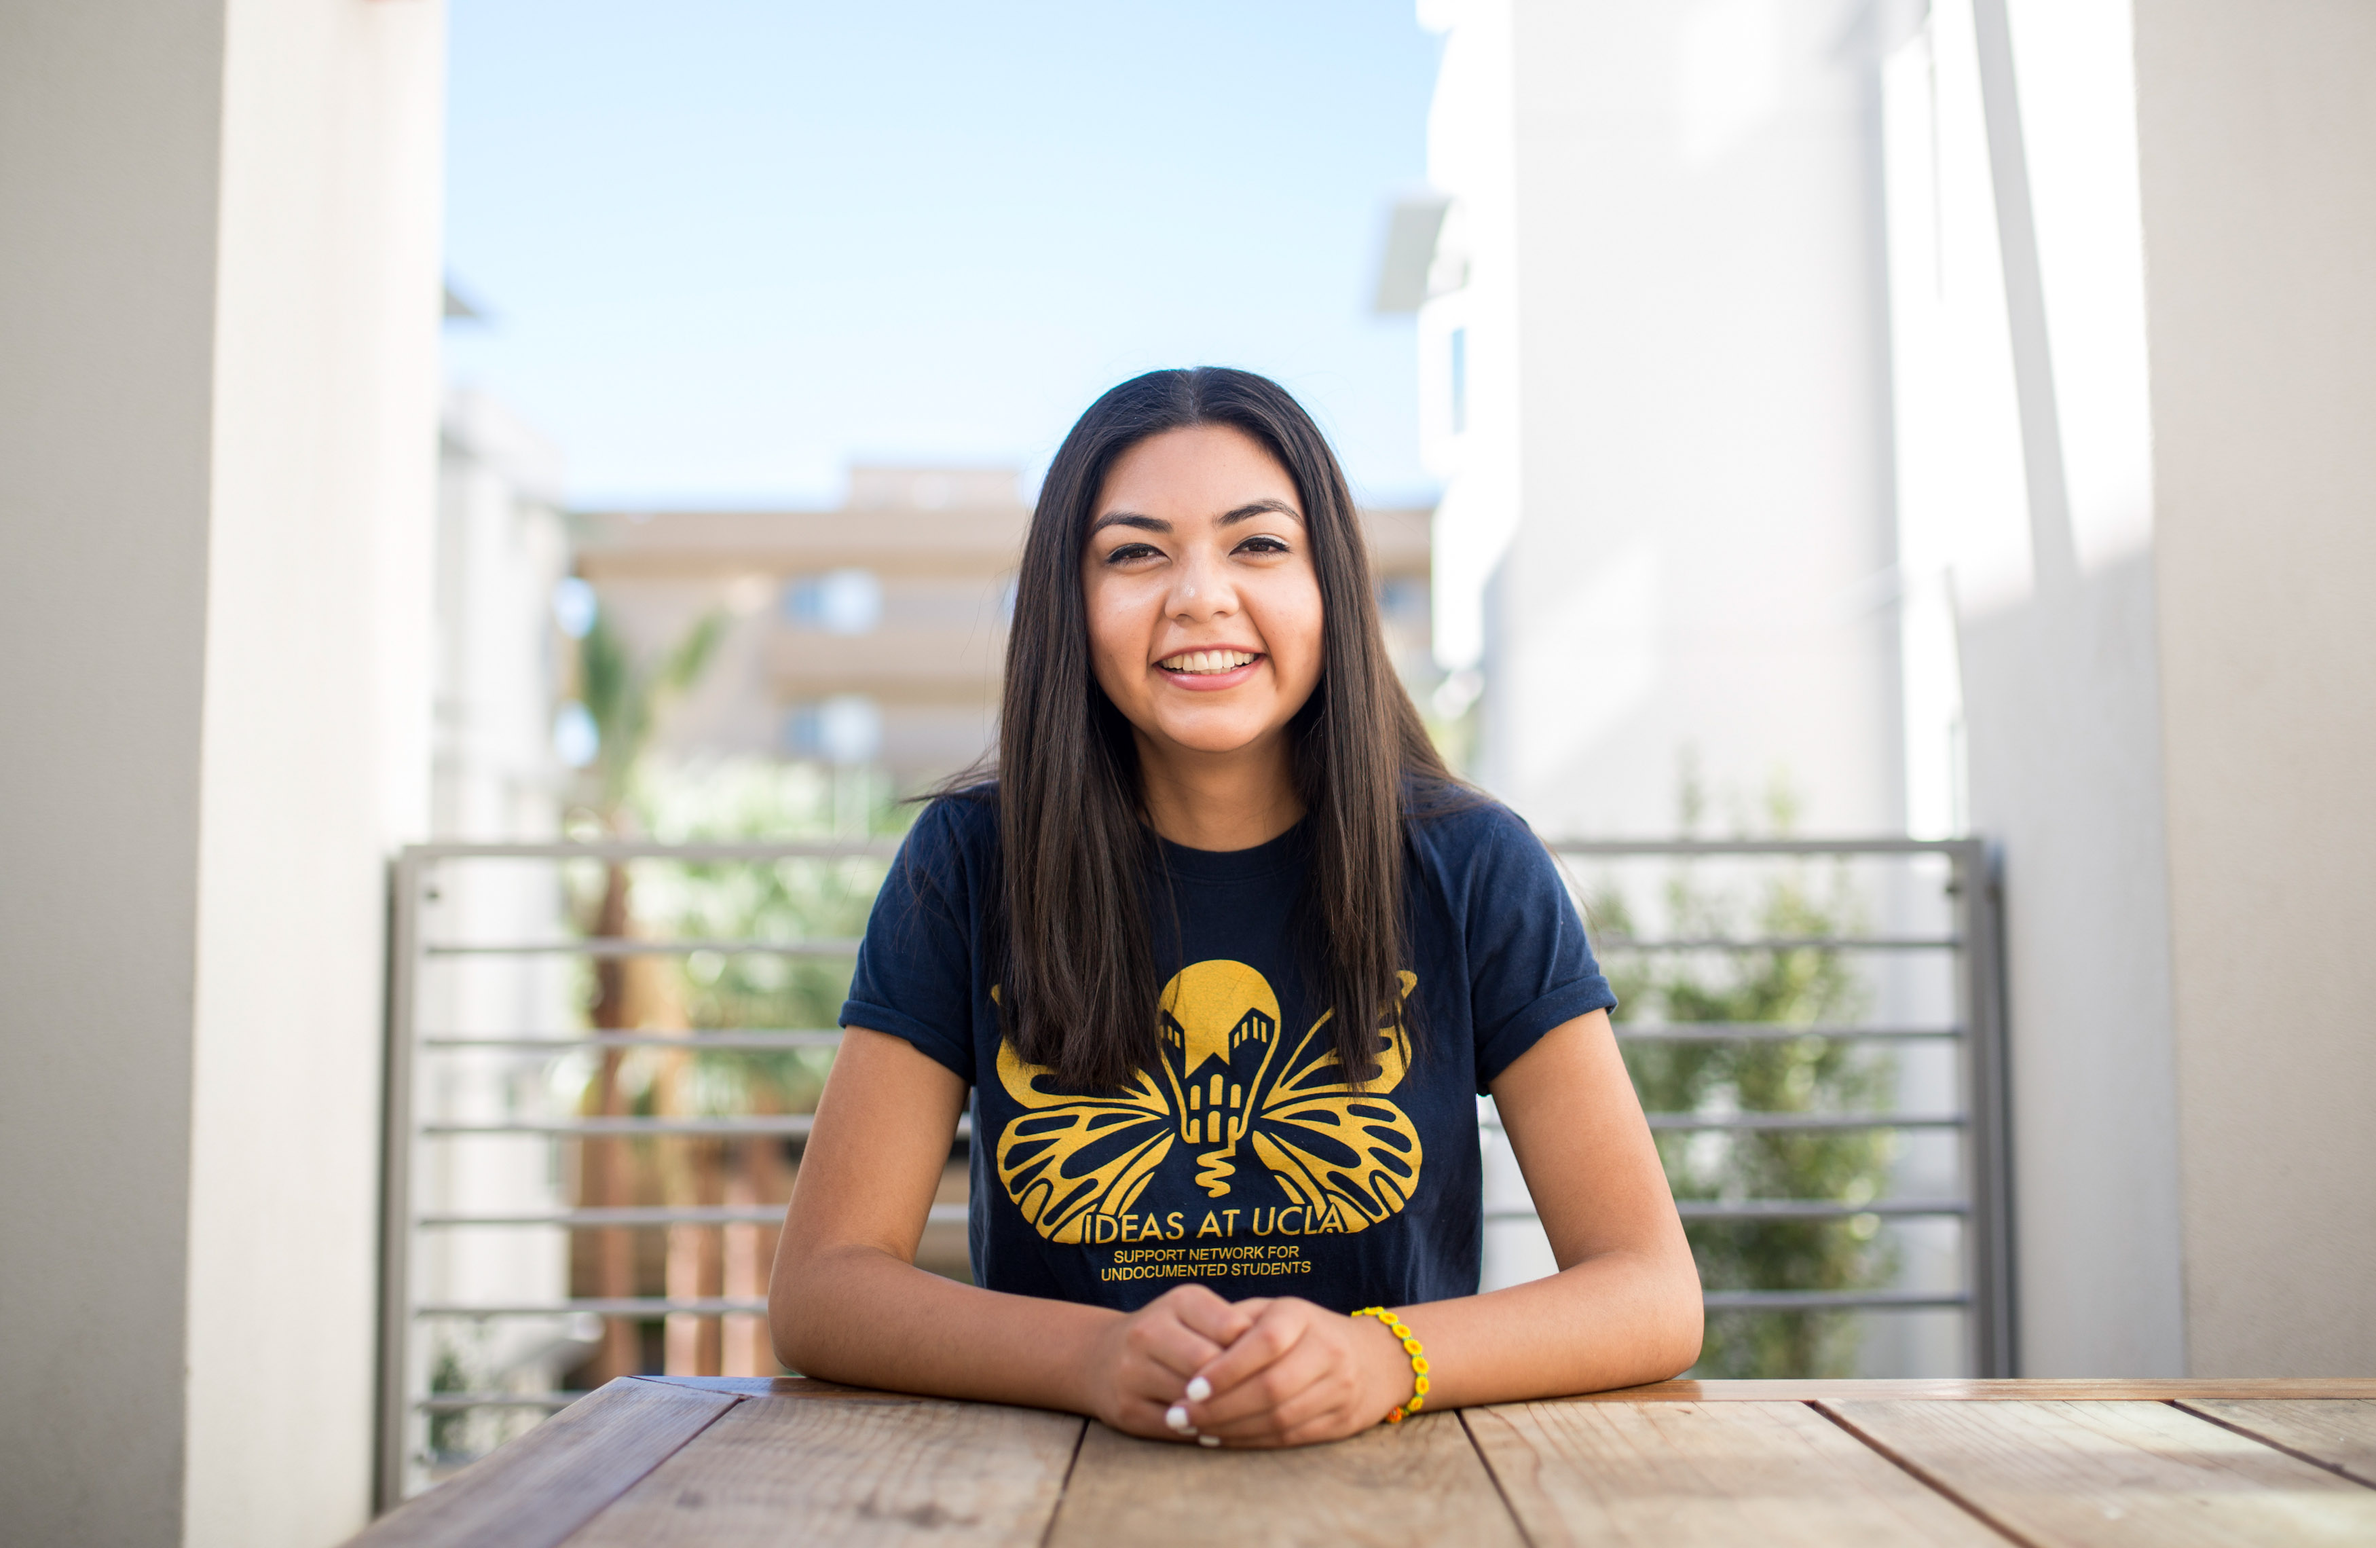
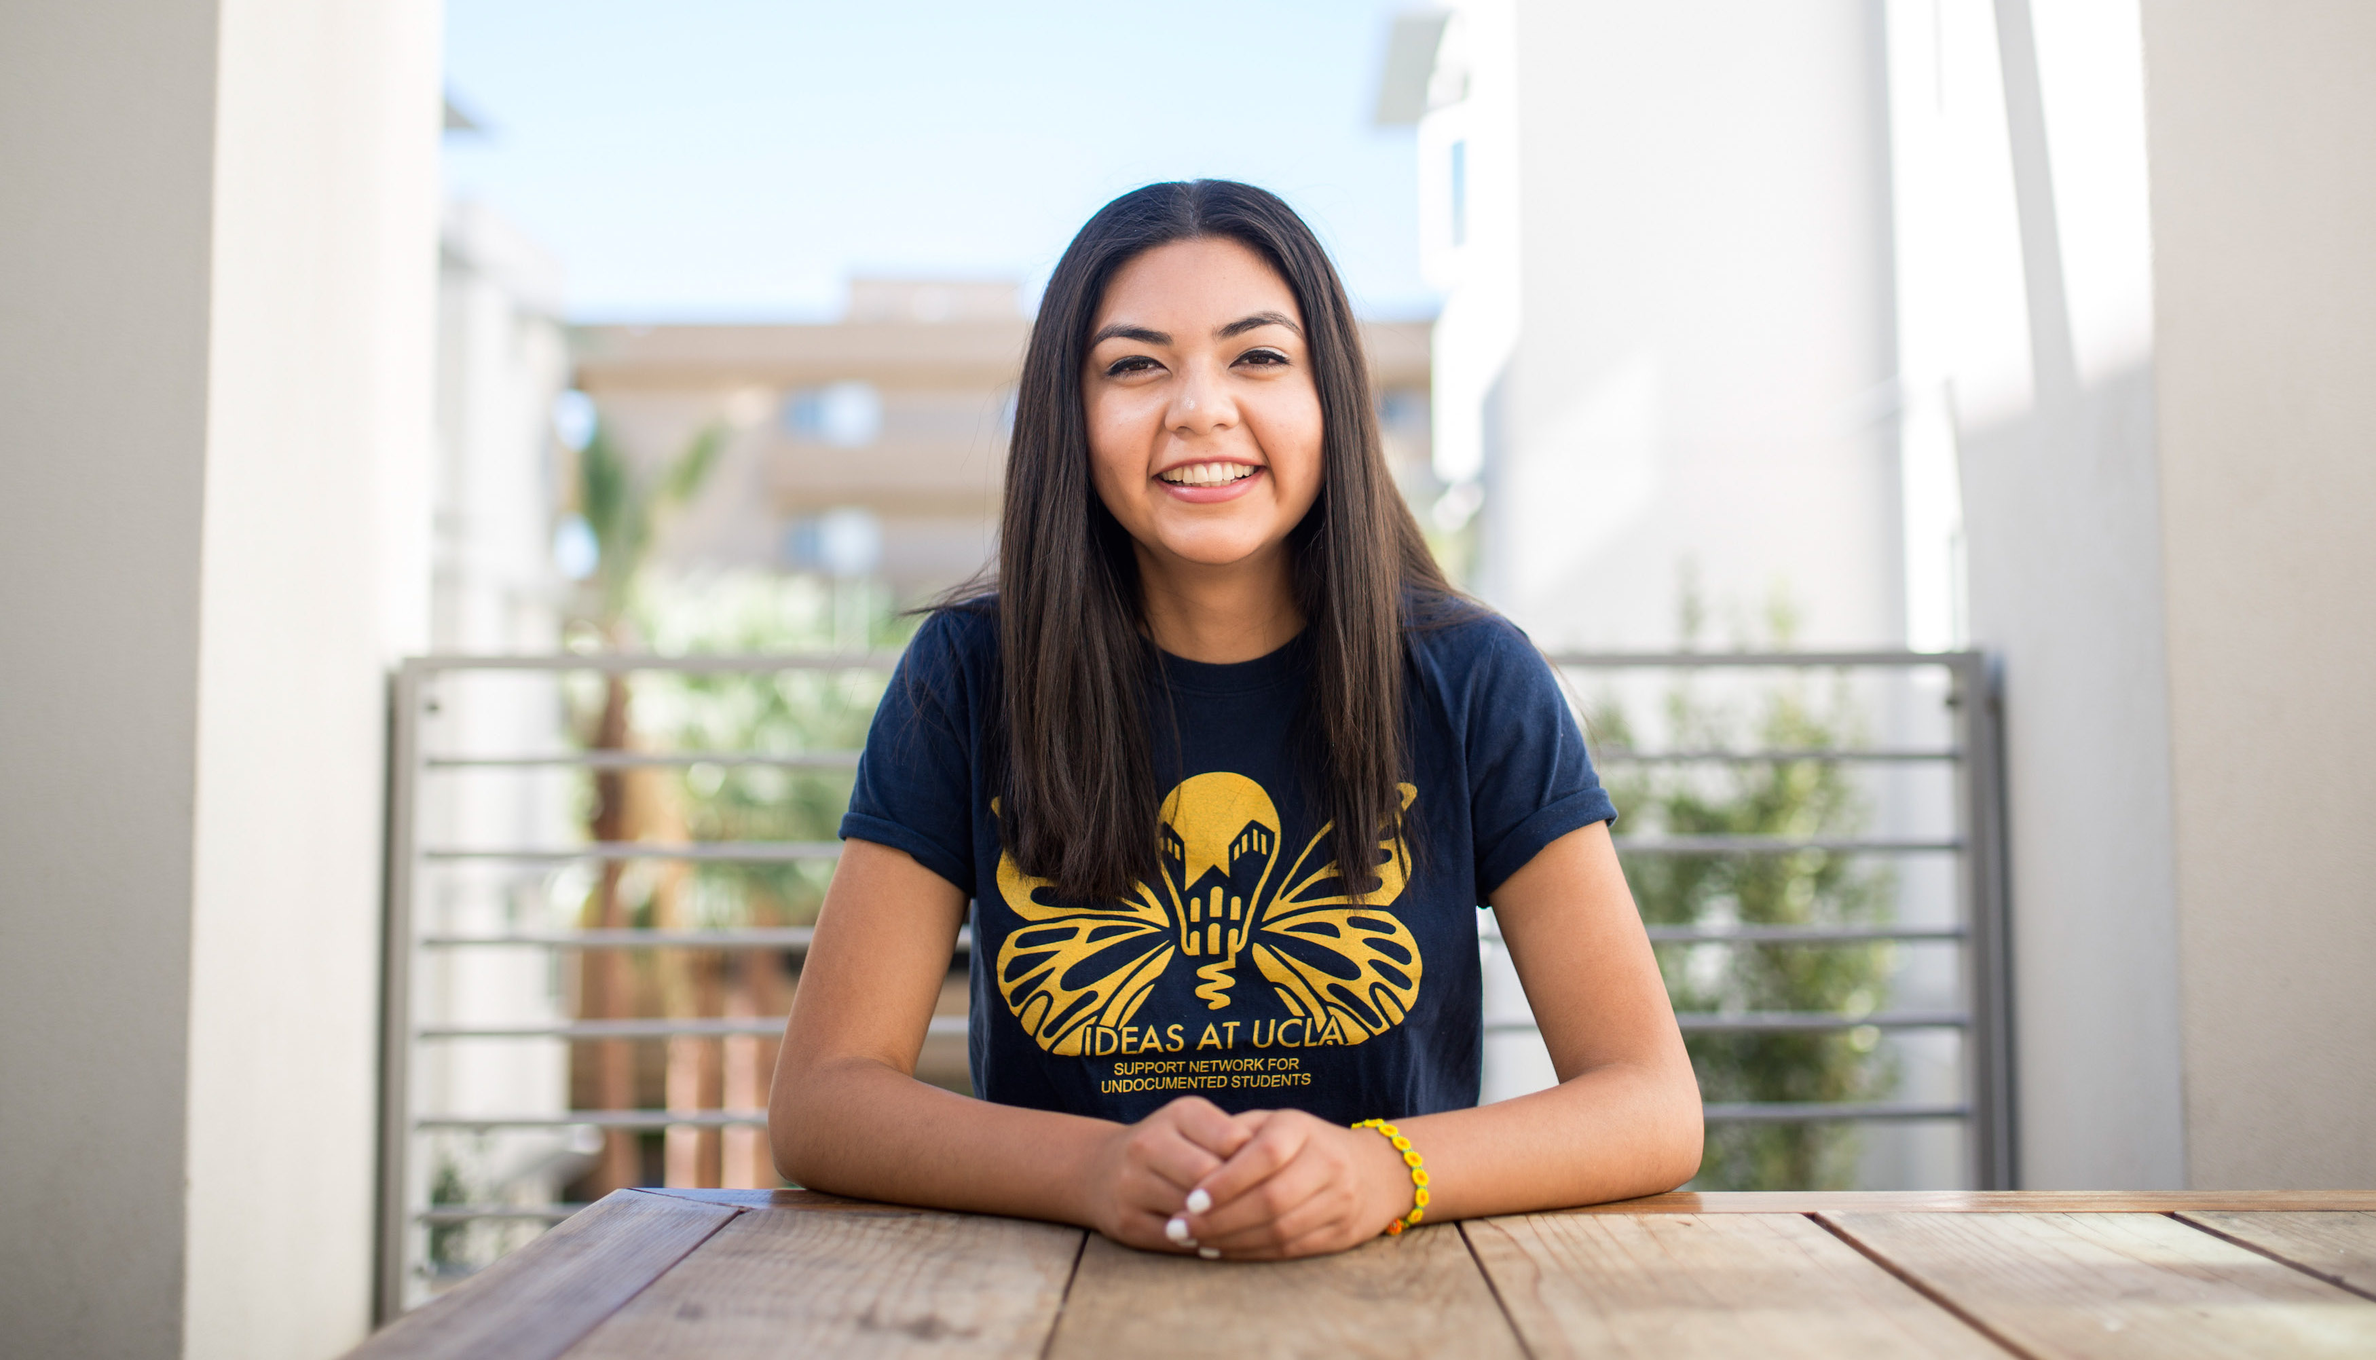
changing landing photo, starting tuition graphic

diff --git a/js/uscartogram.js b/js/uscartogram.js
@@ -1,8 +1,8 @@
 //uses abbreviation as key for data
-uscartogram = function(id, dataPath, colorField) {
+uscartogram = function(id, dataPath, colorField, offset) {
   var margin = { x: 50, y: 55};
   var width = $(id).width();
-  var height = (width-margin.x*2)*7/12 + margin.y*2;
+  var height = (width-margin.x*2)*7/12 + margin.y*2 + margin.y*offset;
     
   var radius = (width - margin.x*2)/24;
   
@@ -34,7 +34,7 @@ uscartogram = function(id, dataPath, colorField) {
                         return (d.column-1) * radius * 2 + margin.x + radius;
                       })
                       .attr("cy", function(d) {
-                        return (d.row-1) * radius * 2 + margin.y + radius;
+                        return (d.row-1) * radius * 2 + margin.y*(1+offset) + radius;
                       })
                       .style("fill", function(d) { 
                         if (d[colorField]=="")
@@ -53,7 +53,7 @@ uscartogram = function(id, dataPath, colorField) {
                         return (d.column-1) * radius * 2 + margin.x + radius;
                       })
                       .attr("y", function(d) {
-                        return (d.row-1) * radius * 2 + margin.y + radius*1.3;
+                        return (d.row-1) * radius * 2 + margin.y*(1+offset) + radius*1.3;
                       })
                       .on("mouseover", mouseover);
 

diff --git a/_sass/_layout.scss b/_sass/_layout.scss
@@ -890,8 +890,8 @@ article{
 
 div.landing-photo {
   background-attachment: fixed;
-  height: 150vh;
-  width: 150%;
+  height: 100vh;
+  width: 100%;
   overflow: auto;
   position: fixed;
   top:0;
@@ -900,10 +900,14 @@ div.landing-photo {
 }
 
 div.landing {
-    background-color: transparentize(#fffff8, 0.175);
+    background-color: transparentize(#fffff8, 0.275);
     position: absolute;
     width: 100%;
     top: 0;
+    
+    h1,p,span {
+      text-shadow: 0em 0em 0.01em #fffff8;
+    }
     
     div.top {
       min-height: 100vh;

diff --git a/index.html b/index.html
@@ -1,7 +1,7 @@
 ---
 layout: landing
 ---
-  <div class="landing-photo" style="background-image: url('{{ "/img/photos/ns.BOB.LA.picA.AW.jpg" | prepend: site.baseurl}}');">
+  <div class="landing-photo" style="background-image: url('{{ "/img/photos/ns.BOB.Paolo.picC.AW.jpg" | prepend: site.baseurl}}');">
   </div>
   <div class="landing">
     <div class="top">
